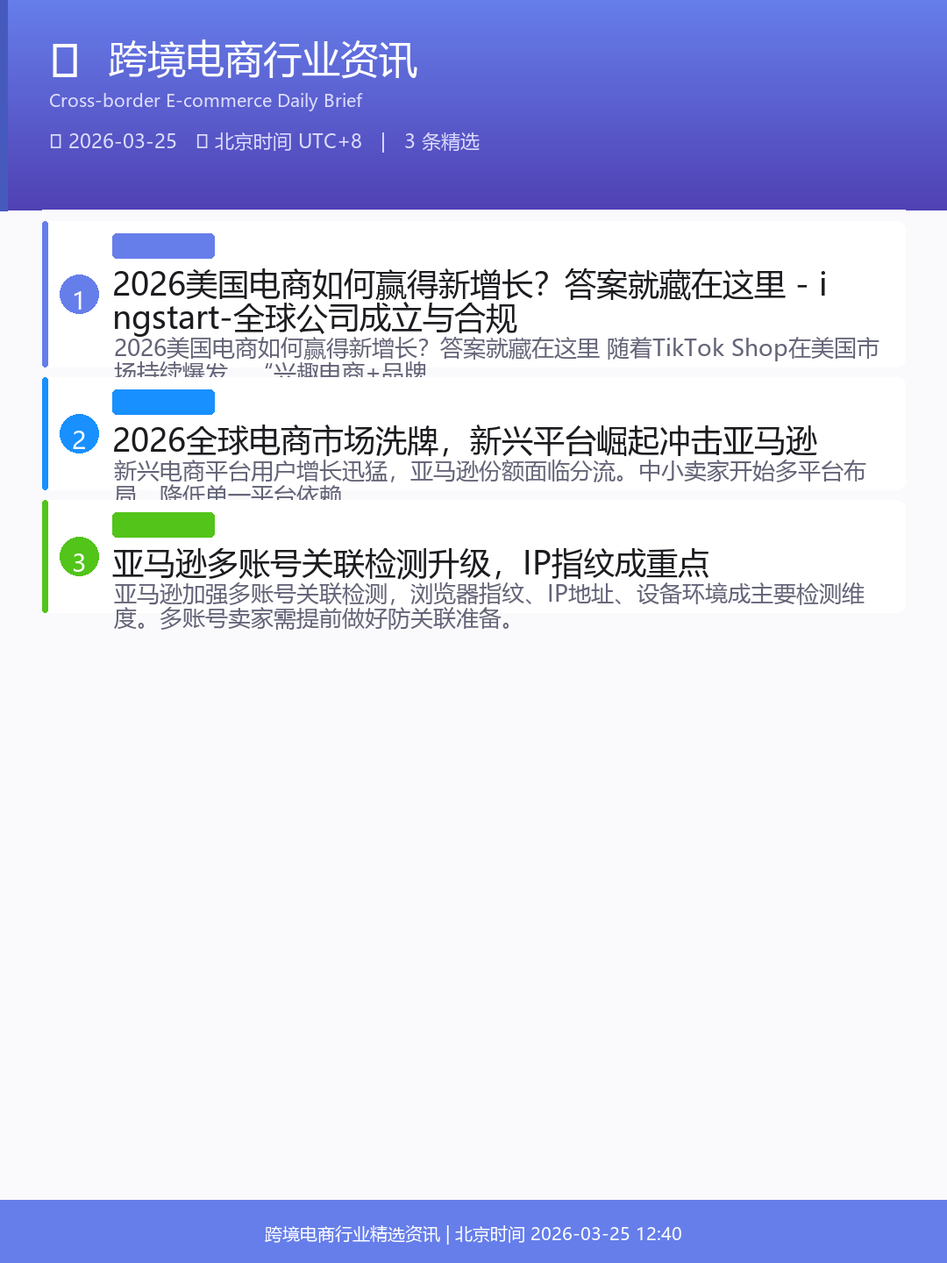
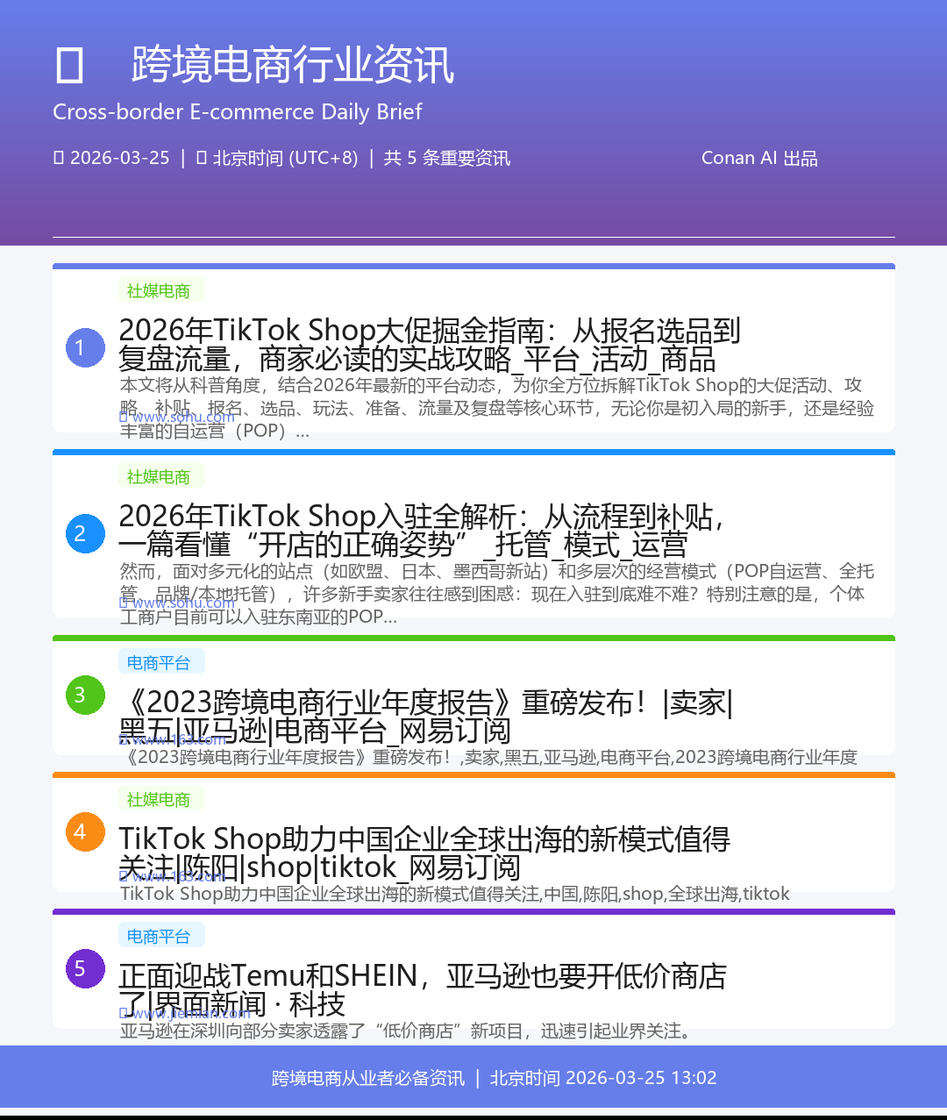
update: 行业简报 2026-03-25 13:02

diff --git a/资讯/index.html b/资讯/index.html
@@ -2,148 +2,162 @@
 <html>
 <head>
 <meta charset="UTF-8">
-<meta name="viewport" content="width=device-width,initial-scale=1.0">
-<title>行业资讯</title>
+<meta name="viewport" content="width=device-width, initial-scale=1.0">
+<title>📰 行业资讯</title>
 <style>
-*{margin:0;padding:0;box-sizing:border-box}
-body{font-family:-apple-system,BlinkMacSystemFont,"Segoe UI",Roboto,sans-serif;background:#f0f2f5;color:#1a1a2e;line-height:1.6}
-a{color:#667eea;text-decoration:none}
-.pk{position:fixed;top:16px;right:16px;z-index:200;background:linear-gradient(135deg,#667eea,#764ba2);color:#fff;border:none;padding:10px 18px;border-radius:25px;font-size:13px;font-weight:700;cursor:pointer;box-shadow:0 4px 16px rgba(102,126,234,.35)}
-.pk:hover{transform:scale(1.04)}
-.hdr{background:linear-gradient(135deg,#667eea 0%,#764ba2 100%);padding:20px 24px 16px;color:#fff}
-.hdr h1{font-size:20px;font-weight:800;letter-spacing:-.5px}
-.hdr p{font-size:12px;color:rgba(255,255,255,.75);margin-top:2px}
-.hdr .tm{font-size:11px;color:rgba(255,255,255,.6);margin-top:4px}
-.bar{display:flex;gap:8px;padding:12px 16px;background:#fff;border-bottom:1px solid #e8e9f0;overflow-x:auto;white-space:nowrap}
-.bar a{display:inline-block;padding:6px 14px;background:#f4f5f9;border-radius:20px;font-size:12px;font-weight:600;color:#4a4a6a;transition:all .2s}
-.bar a:hover,.bar a.active{background:#667eea;color:#fff}
-.main{max-width:720px;margin:0 auto;padding:12px 16px 80px}
-.sec{margin-bottom:16px}
-.sec-h{font-size:12px;font-weight:700;color:#9090a0;text-transform:uppercase;letter-spacing:.5px;padding:8px 0 6px;border-bottom:1px solid #e8e9f0;margin-bottom:8px;display:flex;align-items:center;gap:6px}
-.sec-h span{background:#667eea;color:#fff;font-size:10px;padding:1px 6px;border-radius:8px}
-.curB{background:#22c55e!important}
-.nl{list-style:none;background:#fff;border-radius:12px;overflow:hidden;box-shadow:0 1px 3px rgba(0,0,0,.06)}
-.ni{display:flex;gap:14px;padding:14px 16px;border-bottom:1px solid #f0f2f5;align-items:flex-start}
-.ni:last-child{border-bottom:none}
-.nb{width:26px;height:26px;background:linear-gradient(135deg,#667eea,#764ba2);color:#fff;border-radius:50%;font-size:11px;font-weight:700;display:flex;align-items:center;justify-content:center;flex-shrink:0;margin-top:2px}
-.nc{flex:1;min-width:0}
-.nm{margin-bottom:4px}
-.tag{display:inline-block;padding:1px 8px;border-radius:6px;font-size:10px;font-weight:700}
-.tagR{background:#fff1f0;color:#cf1322}
-.tagO{background:#fff7e6;color:#d46b08}
-.tagB{background:#e6f7ff;color:#0958d9}
-.tagV{background:#f9f0ff;color:#722ed1}
-.tagG{background:#f6ffed;color:#389e0d}
-.tagGr{background:#f5f5f5;color:#595959}
-.nt{font-size:14px;font-weight:600;color:#1a1a2e;line-height:1.4;margin-bottom:3px}
-.nt a{color:inherit}
-.nd{font-size:12px;color:#6b6b80;line-height:1.5}
-.ns{font-size:11px;color:#9090a0;margin-top:4px}
-.nlk{color:#667eea;font-weight:600}
-.tl{width:100%;border-collapse:collapse;background:#fff;border-radius:12px;overflow:hidden;box-shadow:0 1px 3px rgba(0,0,0,.06)}
-.tl th{font-size:11px;color:#9090a0;font-weight:600;text-align:left;padding:10px 12px;background:#f8f9fb;border-bottom:1px solid #e8e9f0;text-transform:uppercase}
-.tl td{padding:10px 12px;font-size:12px;border-bottom:1px solid #f0f2f5;vertical-align:middle}
-.tl tr:last-child td{border-bottom:none}
-.tc{color:#667eea;font-weight:700;white-space:nowrap}
-.ti{color:#6b6b80;max-width:180px;overflow:hidden;text-overflow:ellipsis;white-space:nowrap}
-.bv{padding:5px 12px;background:#667eea;color:#fff;border:none;border-radius:8px;font-size:11px;font-weight:600;cursor:pointer}
-.bv:hover{background:#764ba2}
-.bcur{background:#22c55e}
-.bcur:hover{background:#16a34a}
-.empty{text-align:center;padding:28px;color:#9090a0;font-size:13px}
-.dg{margin-bottom:20px}
-.dl{font-size:13px;font-weight:700;color:#1a1a2e;padding:8px 0 6px;border-bottom:2px solid #667eea;margin-bottom:6px}
-.dg .tl{border-radius:8px}
-.ov{position:fixed;top:0;left:0;right:0;bottom:0;background:rgba(0,0,0,.6);z-index:300;display:none;align-items:center;justify-content:center;padding:16px}
-.ov.on{display:flex}
-.ovbox{background:#fff;border-radius:16px;width:100%;max-width:680px;max-height:85vh;overflow-y:auto;box-shadow:0 24px 80px rgba(0,0,0,.25)}
-.ovhd{display:flex;justify-content:space-between;align-items:center;padding:16px 20px;border-bottom:1px solid #e8e9f0;position:sticky;top:0;background:#fff;border-radius:16px 16px 0 0}
-.ovtt{font-size:15px;font-weight:700;color:#1a1a2e}
-.ovcls{padding:6px 14px;background:#f4f5f9;border:none;border-radius:8px;font-size:12px;font-weight:600;cursor:pointer}
-.ovbd{padding:16px}
-.dlbtn{position:fixed;bottom:24px;right:16px;background:linear-gradient(135deg,#667eea,#764ba2);color:#fff;padding:12px 20px;border-radius:25px;font-size:13px;font-weight:700;text-decoration:none;box-shadow:0 4px 20px rgba(102,126,234,.4);z-index:100;display:flex;align-items:center;gap:6px}
-.dlbtn:hover{transform:scale(1.04)}
+  * { margin: 0; padding: 0; box-sizing: border-box; }
+  body { font-family: -apple-system, BlinkMacSystemFont, 'Segoe UI', Roboto, sans-serif; background: #f0f2f5; }
+  .header { background: linear-gradient(135deg, #667eea 0%, #764ba2 100%); color: white; padding: 20px 40px; display: flex; justify-content: space-between; align-items: center; flex-wrap: wrap; gap: 10px; }
+  .header h1 { font-size: 22px; }
+  .header a { color: white; text-decoration: none; font-size: 14px; }
+  .header .last-check { font-size: 12px; opacity: 0.8; }
+  .container { max-width: 1100px; margin: 0 auto; padding: 30px 40px; }
+
+  /* 简报图片卡片 */
+  .poster-card { margin-bottom: 25px; }
+  .poster-card-inner { background: white; border-radius: 16px; padding: 24px 28px; box-shadow: 0 4px 16px rgba(0,0,0,0.1); display: flex; align-items: center; gap: 20px; cursor: pointer; border: 2px solid transparent; transition: all 0.25s; }
+  .poster-card-inner:hover { border-color: #667eea; transform: translateY(-3px); box-shadow: 0 10px 30px rgba(102,126,234,0.2); }
+  .poster-icon { width: 64px; height: 64px; background: linear-gradient(135deg, #667eea, #764ba2); border-radius: 14px; display: flex; align-items: center; justify-content: center; font-size: 30px; flex-shrink: 0; }
+  .poster-info { flex: 1; }
+  .poster-title { font-size: 17px; font-weight: 700; color: #222; margin-bottom: 5px; }
+  .poster-desc { font-size: 13px; color: #666; }
+  .poster-right { display: flex; align-items: center; gap: 15px; }
+  .poster-tag { background: linear-gradient(135deg, #667eea, #764ba2); color: white; font-size: 12px; padding: 6px 14px; border-radius: 20px; white-space: nowrap; font-weight: 600; }
+  .poster-arrow { font-size: 22px; color: #667eea; }
+
+  /* 简报正文 */
+  .brief-card { background: white; border-radius: 16px; padding: 28px 32px; box-shadow: 0 4px 16px rgba(0,0,0,0.08); margin-bottom: 25px; }
+  .brief-header { display: flex; justify-content: space-between; align-items: center; margin-bottom: 24px; padding-bottom: 16px; border-bottom: 2px solid #f0f0f5; flex-wrap: wrap; gap: 8px; }
+  .brief-header-title { font-size: 18px; font-weight: 700; color: #222; }
+  .brief-header-meta { font-size: 12px; color: #999; }
+  .brief-header-badge { background: #52c41a; color: white; font-size: 11px; padding: 3px 10px; border-radius: 10px; margin-left: 10px; }
+  .brief-item { display: flex; gap: 16px; padding: 18px 0; border-bottom: 1px solid #f5f5f5; }
+  .brief-item:last-child { border-bottom: none; padding-bottom: 0; }
+  .brief-num { width: 28px; height: 28px; background: linear-gradient(135deg, #667eea, #764ba2); color: white; border-radius: 50%; font-size: 13px; font-weight: 700; display: flex; align-items: center; justify-content: center; flex-shrink: 0; margin-top: 3px; }
+  .brief-content { flex: 1; }
+  .brief-content .tag { display: inline-block; padding: 2px 8px; border-radius: 4px; font-size: 11px; margin-bottom: 6px; }
+  .brief-content .tag-blue { background: #e6f7ff; color: #1890ff; }
+  .brief-content .tag-green { background: #f6ffed; color: #52c41a; }
+  .brief-content .tag-orange { background: #fff7e6; color: #fa8c16; }
+  .brief-content .tag-purple { background: #f9f0ff; color: #722ed1; }
+  .brief-title { font-size: 15px; font-weight: 600; color: #222; margin-bottom: 6px; line-height: 1.5; }
+  .brief-title a { color: #222; text-decoration: none; }
+  .brief-title a:hover { color: #667eea; }
+  .brief-desc { font-size: 13px; color: #555; line-height: 1.7; margin-bottom: 6px; }
+  .brief-source { font-size: 12px; color: #999; }
+  .brief-link a { color: #667eea; text-decoration: none; }
+  .brief-link a:hover { text-decoration: underline; }
+
+  /* 弹窗 */
+  .modal-overlay { display: none; position: fixed; top: 0; left: 0; right: 0; bottom: 0; background: rgba(0,0,0,0.88); z-index: 9999; align-items: center; justify-content: center; padding: 20px; }
+  .modal-overlay.show { display: flex; }
+  .modal-close { position: fixed; top: 20px; right: 30px; color: white; font-size: 32px; cursor: pointer; z-index: 10001; background: rgba(255,255,255,0.15); width: 44px; height: 44px; border-radius: 50%; text-align: center; line-height: 44px; }
+  .modal-close:hover { background: rgba(255,255,255,0.3); }
+  .modal-img-wrap { max-width: 95vw; max-height: 90vh; display: flex; align-items: center; justify-content: center; }
+  .modal-img-wrap img { max-width: 100%; max-height: 88vh; border-radius: 12px; box-shadow: 0 24px 80px rgba(0,0,0,0.6); }
+  .modal-save { position: fixed; bottom: 30px; right: 30px; z-index: 10001; }
+  .modal-save a { display: inline-block; background: white; color: #667eea; padding: 12px 24px; border-radius: 25px; font-size: 14px; font-weight: 700; text-decoration: none; box-shadow: 0 4px 16px rgba(0,0,0,0.3); }
+  .modal-save a:hover { transform: scale(1.05); }
+  .modal-tip { position: fixed; bottom: 30px; left: 50%; transform: translateX(-50%); color: rgba(255,255,255,0.5); font-size: 12px; z-index: 10001; }
 </style>
 </head>
 <body>
-<button class="pk" onclick="document.getElementById('ov').classList.toggle('on')">🖼 预览图片</button>
-
-<div class="hdr">
+<div class="header">
   <h1>📰 行业资讯</h1>
-  <p>跨境电商每日简报 · 精选 5 条</p>
-  <div class="tm">🕒 2026-03-25 12:40 · 北京时间 UTC+8</div>
-</div>
-
-<div class="bar">
-  <a href="#" class="active" id="tabA0" onclick="switchTab(0);return false">📋 当前版本</a>
-  <a href="#" id="tabA1" onclick="switchTab(1);return false">🕐 今日历史</a>
-  <a href="历史.html">📁 历史存档</a>
-</div>
-
-<div class="main">
-  <div id="tab0">
-    <div class="sec">
-      <div class="sec-h">🖼 对外简报 <span>朋友圈</span> <span class="curB">12:00</span></div>
-      <ul class="nl"><li class="ni"><div class="nb">1</div><div class="nc"><div class="nm"><span class="tag tagR">行业政策</span></div><div class="nt"><a href="https://www.ingstart.com/blog/45558.html" target="_blank">2026美国电商如何赢得新增长？答案就藏在这里 - ingstart-全球公司成立与合规</a></div><div class="nd">2026美国电商如何赢得新增长？答案就藏在这里 随着TikTok Shop在美国市场持续爆发，“兴趣电商+品牌</div></div></li><li class="ni"><div class="nb">2</div><div class="nc"><div class="nm"><span class="tag tagO">市场观察</span></div><div class="nt"><a href="https://www.sohu.com/a/996154720_122656378" target="_blank">2026全球电商市场洗牌，新兴平台崛起冲击亚马逊</a></div><div class="nd">新兴电商平台用户增长迅猛，亚马逊份额面临分流。中小卖家开始多平台布局，降低单一平台依赖。</div></div></li><li class="ni"><div class="nb">3</div><div class="nc"><div class="nm"><span class="tag tagR">行业政策</span></div><div class="nt"><a href="https://www.sohu.com/a/998377667_120987862" target="_blank">亚马逊多账号关联检测升级，IP指纹成重点</a></div><div class="nd">亚马逊加强多账号关联检测，浏览器指纹、IP地址、设备环境成主要检测维度。多账号卖家需提前做好防关联准备。</div></div></li></ul>
-    </div>
-    <div class="sec">
-      <div class="sec-h">📊 对内全模块 <span>5条</span></div>
-      <ul class="nl"><li class="ni"><div class="nb">1</div><div class="nc"><div class="nm"><span class="tag tagR">行业政策</span></div><div class="nt"><a href="https://www.ingstart.com/blog/45558.html" target="_blank">2026美国电商如何赢得新增长？答案就藏在这里 - ingstart-全球公司成立与合规</a></div><div class="nd">2026美国电商如何赢得新增长？答案就藏在这里 随着TikTok Shop在美国市场持续爆发，“兴趣电商+品牌</div><div class="ns">&#128214; <a href="https://www.ingstart.com/blog/45558.html" target="_blank">www.ingstart.com</a> <a class="nlk" href="https://www.ingstart.com/blog/45558.html" target="_blank">&#8594;</a></div></div></li><li class="ni"><div class="nb">2</div><div class="nc"><div class="nm"><span class="tag tagGr">运营技巧</span></div><div class="nt"><a href="https://www.sohu.com/a/998487508_122647688" target="_blank">404,您访问的页面已经不存在!</a></div><div class="nd"></div><div class="ns">&#128214; <a href="https://www.sohu.com/a/998487508_122647688" target="_blank">www.sohu.com</a> <a class="nlk" href="https://www.sohu.com/a/998487508_122647688" target="_blank">&#8594;</a></div></div></li><li class="ni"><div class="nb">3</div><div class="nc"><div class="nm"><span class="tag tagO">市场观察</span></div><div class="nt"><a href="https://www.sohu.com/a/996154720_122656378" target="_blank">2026全球电商市场洗牌，新兴平台崛起冲击亚马逊</a></div><div class="nd">新兴电商平台用户增长迅猛，亚马逊份额面临分流。中小卖家开始多平台布局，降低单一平台依赖。</div><div class="ns">&#128214; <a href="https://www.sohu.com/a/996154720_122656378" target="_blank">搜狐财经</a> <a class="nlk" href="https://www.sohu.com/a/996154720_122656378" target="_blank">&#8594;</a></div></div></li><li class="ni"><div class="nb">4</div><div class="nc"><div class="nm"><span class="tag tagR">行业政策</span></div><div class="nt"><a href="https://www.sohu.com/a/998377667_120987862" target="_blank">亚马逊多账号关联检测升级，IP指纹成重点</a></div><div class="nd">亚马逊加强多账号关联检测，浏览器指纹、IP地址、设备环境成主要检测维度。多账号卖家需提前做好防关联准备。</div><div class="ns">&#128214; <a href="https://www.sohu.com/a/998377667_120987862" target="_blank">搜狐财经</a> <a class="nlk" href="https://www.sohu.com/a/998377667_120987862" target="_blank">&#8594;</a></div></div></li><li class="ni"><div class="nb">5</div><div class="nc"><div class="nm"><span class="tag tagR">行业政策</span></div><div class="nt"><a href="https://www.jiemian.com/article/14129901.html" target="_blank">美国、土耳其相继加征关税，跨境卖家成本压力骤增</a></div><div class="nd">美国、土耳其对多国商品加征关税，出口电商面临新一轮成本压力，需提前布局多平台分散风险。</div><div class="ns">&#128214; <a href="https://www.jiemian.com/article/14129901.html" target="_blank">界面新闻</a> <a class="nlk" href="https://www.jiemian.com/article/14129901.html" target="_blank">&#8594;</a></div></div></li></ul>
-    </div>
-  </div>
-  <div id="tab1" style="display:none">
-    <div class="sec">
-      <div class="sec-h">🕐 今日历史版本 <span>2026-03-25</span></div>
-      <table class="tl"><thead><tr><th>时间</th><th>条数</th><th>首条</th><th></th></tr></thead><tbody><tr><td class="tc"><em class="cur">12:00</em></td><td class="ti">8条</td><td class="ti">2026美国电商如何赢得新增长？答案就藏在这里 - ings...</td><td><button class="bv" onclick="showSnap('12')">当前</button></td></tr></tbody></table>
-    </div>
+  <div>
+    <span class="last-check">🕒 北京时间 (UTC+8) | 2026-03-25 13:02</span>
+    <a href="../index.html" style="margin-left:15px;">← 返回首页</a>
   </div>
 </div>
-
-<div class="ov" id="ov" onclick="if(event.target===this)this.classList.remove('on')">
-  <div class="ovbox">
-    <div class="ovhd">
-      <div class="ovtt" id="svT">--:--</div>
-      <button class="ovcls" onclick="document.getElementById('ov').classList.remove('on')">关闭</button>
+<div class="container">
+  <!-- 简报图片卡片 -->
+  <div class="poster-card">
+    <div class="poster-card-inner" onclick="openPosterModal()">
+      <div class="poster-icon">🖼</div>
+      <div class="poster-info">
+        <div class="poster-title">📰 今日简报图片</div>
+        <div class="poster-desc">点击预览完整简报，支持右键/长按保存图片</div>
+      </div>
+      <div class="poster-right">
+        <span class="poster-tag">🕒 2026-03-25</span>
+        <span class="poster-arrow">→</span>
+      </div>
     </div>
-    <div class="ovbd"><div id="svB"></div></div>
+  </div>
+
+  <!-- 简报正文（5条合并） -->
+  <div class="brief-card">
+    <div class="brief-header">
+      <div class="brief-header-title">📋 今日要闻 · 2026-03-25 <span class="brief-header-badge">共 5 条</span></div>
+      <div class="brief-header-meta">🕒 更新于 2026-03-25 13:02 · 每整点自动更新</div>
+    </div>
+    
+      <div class="brief-item">
+        <div class="brief-num">1</div>
+        <div class="brief-content">
+          <span class="tag tag-green">社媒电商</span>
+          <div class="brief-title"><a href="https://www.sohu.com/a/998791727_122656378" target="_blank">2026年TikTok Shop大促掘金指南：从报名选品到复盘流量，商家必读的实战攻略_平台_活动_商品</a></div>
+          <div class="brief-desc">本文将从科普角度，结合2026年最新的平台动态，为你全方位拆解TikTok Shop的大促活动、攻略、补贴、报名、选品、玩法、准备、流量及复盘等核心环节，无论你是初入局的新手，还是经验丰富的自运营（POP）…</div>
+          <div class="brief-source">📌 www.sohu.com <span class="brief-link">→ <a href="https://www.sohu.com/a/998791727_122656378" target="_blank">阅读原文</a></span></div>
+        </div>
+      </div>
+      <div class="brief-item">
+        <div class="brief-num">2</div>
+        <div class="brief-content">
+          <span class="tag tag-green">社媒电商</span>
+          <div class="brief-title"><a href="https://www.sohu.com/a/998337896_122656378" target="_blank">2026年TikTok Shop入驻全解析：从流程到补贴，一篇看懂“开店的正确姿势”_托管_模式_运营</a></div>
+          <div class="brief-desc">然而，面对多元化的站点（如欧盟、日本、墨西哥新站）和多层次的经营模式（POP自运营、全托管、品牌/本地托管），许多新手卖家往往感到困惑：现在入驻到底难不难？特别注意的是，个体工商户目前可以入驻东南亚的POP…</div>
+          <div class="brief-source">📌 www.sohu.com <span class="brief-link">→ <a href="https://www.sohu.com/a/998337896_122656378" target="_blank">阅读原文</a></span></div>
+        </div>
+      </div>
+      <div class="brief-item">
+        <div class="brief-num">3</div>
+        <div class="brief-content">
+          <span class="tag tag-blue">电商平台</span>
+          <div class="brief-title"><a href="https://www.163.com/dy/article/IP7C9S5I0538AT1N.html" target="_blank">《2023跨境电商行业年度报告》重磅发布！|卖家|黑五|亚马逊|电商平台_网易订阅</a></div>
+          <div class="brief-desc">《2023跨境电商行业年度报告》重磅发布！,卖家,黑五,亚马逊,电商平台,2023跨境电商行业年度报告</div>
+          <div class="brief-source">📌 www.163.com <span class="brief-link">→ <a href="https://www.163.com/dy/article/IP7C9S5I0538AT1N.html" target="_blank">阅读原文</a></span></div>
+        </div>
+      </div>
+      <div class="brief-item">
+        <div class="brief-num">4</div>
+        <div class="brief-content">
+          <span class="tag tag-green">社媒电商</span>
+          <div class="brief-title"><a href="https://www.163.com/dy/article/JLQD48HA05199NPP.html" target="_blank">TikTok Shop助力中国企业全球出海的新模式值得关注|陈阳|shop|tiktok_网易订阅</a></div>
+          <div class="brief-desc">TikTok Shop助力中国企业全球出海的新模式值得关注,中国,陈阳,shop,全球出海,tiktok</div>
+          <div class="brief-source">📌 www.163.com <span class="brief-link">→ <a href="https://www.163.com/dy/article/JLQD48HA05199NPP.html" target="_blank">阅读原文</a></span></div>
+        </div>
+      </div>
+      <div class="brief-item">
+        <div class="brief-num">5</div>
+        <div class="brief-content">
+          <span class="tag tag-blue">电商平台</span>
+          <div class="brief-title"><a href="https://www.jiemian.com/article/11336895.html" target="_blank">正面迎战Temu和SHEIN，亚马逊也要开低价商店了|界面新闻 · 科技</a></div>
+          <div class="brief-desc">亚马逊在深圳向部分卖家透露了“低价商店”新项目，迅速引起业界关注。</div>
+          <div class="brief-source">📌 www.jiemian.com <span class="brief-link">→ <a href="https://www.jiemian.com/article/11336895.html" target="_blank">阅读原文</a></span></div>
+        </div>
+      </div>
   </div>
 </div>
 
-<a class="dlbtn" href="https://dwightmulkin-beep.github.io/conan-daily-report/%E8%B5%84%E8%AE%AF/%E7%AE%80%E6%8A%A5.png" download="行业简报_2026-03-25_12h.png">⬇ 保存图片</a>
+<!-- 简报图片弹窗 -->
+<div class="modal-overlay" id="posterModal">
+  <div class="modal-close" onclick="closePosterModal()">×</div>
+  <div class="modal-img-wrap">
+    <img src="https://dwightmulkin-beep.github.io/conan-daily-report/%E8%B5%84%E8%AE%AF/%E7%AE%80%E6%8A%A5.png" alt="今日简报" id="posterImg">
+  </div>
+  <div class="modal-save">
+    <a href="https://dwightmulkin-beep.github.io/conan-daily-report/%E8%B5%84%E8%AE%AF/%E7%AE%80%E6%8A%A5.png" download="行业简报_2026-03-25.png">⬇ 保存图片</a>
+  </div>
+  <div class="modal-tip">点击 × 或按 ESC 关闭</div>
+</div>
 
-<script type="application/json" id="sd">{"2026-03-25": {"12": {"articles": [{"tag": "行业政策", "title": "2026美国电商如何赢得新增长？答案就藏在这里 - ingstart-全球公司成立与合规", "desc": "2026美国电商如何赢得新增长？答案就藏在这里 随着TikTok Shop在美国市场持续爆发，“兴趣电商+品牌", "date": "2026-03-25", "hour": "12", "url": "https://www.ingstart.com/blog/45558.html", "source": "www.ingstart.com", "is_new": true, "for_outer": true, "score": 5}, {"tag": "市场观察", "title": "2026全球电商市场洗牌，新兴平台崛起冲击亚马逊", "desc": "新兴电商平台用户增长迅猛，亚马逊份额面临分流。中小卖家开始多平台布局，降低单一平台依赖。", "url": "https://www.sohu.com/a/996154720_122656378", "source": "搜狐财经", "for_outer": true, "is_new": false, "hour": "12", "score": 5}, {"tag": "行业政策", "title": "亚马逊多账号关联检测升级，IP指纹成重点", "desc": "亚马逊加强多账号关联检测，浏览器指纹、IP地址、设备环境成主要检测维度。多账号卖家需提前做好防关联准备。", "url": "https://www.sohu.com/a/998377667_120987862", "source": "搜狐财经", "for_outer": true, "is_new": false, "hour": "12", "score": 2}, {"tag": "行业政策", "title": "2026美国电商如何赢得新增长？答案就藏在这里 - ingstart-全球公司成立与合规", "desc": "2026美国电商如何赢得新增长？答案就藏在这里 随着TikTok Shop在美国市场持续爆发，“兴趣电商+品牌", "date": "2026-03-25", "hour": "12", "url": "https://www.ingstart.com/blog/45558.html", "source": "www.ingstart.com", "is_new": true, "for_outer": true, "score": 5}, {"tag": "运营技巧", "title": "404,您访问的页面已经不存在!", "desc": "", "date": "2026-03-25", "hour": "12", "url": "https://www.sohu.com/a/998487508_122647688", "source": "www.sohu.com", "is_new": true, "for_outer": false, "score": 0}, {"tag": "市场观察", "title": "2026全球电商市场洗牌，新兴平台崛起冲击亚马逊", "desc": "新兴电商平台用户增长迅猛，亚马逊份额面临分流。中小卖家开始多平台布局，降低单一平台依赖。", "url": "https://www.sohu.com/a/996154720_122656378", "source": "搜狐财经", "for_outer": true, "is_new": false, "hour": "12", "score": 5}, {"tag": "行业政策", "title": "亚马逊多账号关联检测升级，IP指纹成重点", "desc": "亚马逊加强多账号关联检测，浏览器指纹、IP地址、设备环境成主要检测维度。多账号卖家需提前做好防关联准备。", "url": "https://www.sohu.com/a/998377667_120987862", "source": "搜狐财经", "for_outer": true, "is_new": false, "hour": "12", "score": 2}, {"tag": "行业政策", "title": "美国、土耳其相继加征关税，跨境卖家成本压力骤增", "desc": "美国、土耳其对多国商品加征关税，出口电商面临新一轮成本压力，需提前布局多平台分散风险。", "url": "https://www.jiemian.com/article/14129901.html", "source": "界面新闻", "for_outer": true, "is_new": false, "hour": "12", "score": 2}], "updated": "2026-03-25 12:40"}}}</script>
 <script>
-var SD=JSON.parse(document.getElementById("sd").textContent||"{}");
-var tabs=document.querySelectorAll('.bar a');
-
-function switchTab(i){
-  document.getElementById('tab0').style.display=i===0?'block':'none';
-  document.getElementById('tab1').style.display=i===1?'block':'none';
-  tabs[0].classList.toggle('active',i===0);
-  tabs[1].classList.toggle('active',i===1);
-}
-
-function showSnap(hr){
-  var TD=SD["2026-03-25"]||{};
-  var sp=TD[hr];if(!sp){alert("数据不存在");return}
-  var arts=sp.articles||[];
-  document.getElementById("svT").textContent="2026-03-25 "+hr+":00 ("+arts.length+"条)";
-  var h='<ul class="nl">';
-  arts.forEach(function(a,i){
-    var cls=a.tag==="\u884c\u4e1a\u653f\u7b56"?"tagR":a.tag==="\u5e02\u573a\u89c2\u5bdf"?"tagO":
-           a.tag==="\u5e73\u53f0\u52a8\u6001"?"tagB":a.tag==="\u5de5\u5177\u8bc4\u6d4b"?"tagV":
-           a.tag==="\u652f\u4ed8\u91d1\u878d"?"tagG":"tagGr";
-    h+='<li class="ni"><div class="nb">'+(i+1)+'</div><div class="nc">'+
-      '<div class="nm"><span class="tag '+cls+'">'+a.tag+'</span></div>'+
-      '<div class="nt"><a href="'+a.url+'" target="_blank">'+a.title+'</a></div>'+
-      '<div class="nd">'+a.desc+'</div>'+
-      '<div class="ns">📌 <a href="'+a.url+'" target="_blank">'+a.source+'</a> <a class="nlk" href="'+a.url+'" target="_blank">→</a></div>'+
-    '</div></li>';
-  });
-  h+='</ul>';
-  document.getElementById("svB").innerHTML=h;
-  document.getElementById("ov").classList.add("on");
-}
+var modal = document.getElementById('posterModal');
+function openPosterModal() { modal.classList.add('show'); document.body.style.overflow = 'hidden'; }
+function closePosterModal() { modal.classList.remove('show'); document.body.style.overflow = ''; }
+modal.addEventListener('click', function(e) { if (e.target === modal) closePosterModal(); });
+document.addEventListener('keydown', function(e) { if (e.key === 'Escape') closePosterModal(); });
 </script>
 </body>
 </html>

diff --git a/index.html b/index.html
@@ -76,7 +76,7 @@
 <div class="header">
   <h1>📊 Conan信息站</h1>
   <div>
-    <span class="tz">🕒 北京时间 (UTC+8) | 资讯2026-03-25 12:02 | 资讯2026-03-25 11:29 | 资讯2026-03-25 11:02 | 资讯2026-03-25 10:44 | 资讯2026-03-25 10:37 | 资讯2026-03-25 10:33 | 资讯2026-03-25 10:30 | 资讯2026-03-25 10:29 | 资讯更新于 2026-03-25 10:15</span>
+    <span class="tz">🕒 北京时间 (UTC+8) | 资讯2026-03-25 13:02 | 资讯2026-03-25 12:02 | 资讯2026-03-25 11:29 | 资讯2026-03-25 11:02 | 资讯2026-03-25 10:44 | 资讯2026-03-25 10:37 | 资讯2026-03-25 10:33 | 资讯2026-03-25 10:30 | 资讯2026-03-25 10:29 | 资讯更新于 2026-03-25 10:15</span>
     <a href="https://github.com/dwightmulkin-beep/conan-daily-report" target="_blank">GitHub</a>
   </div>
 </div>
@@ -132,30 +132,30 @@
   <div class="section">
 
     <div class="news-item">
-      <div class="meta"><span class="tag tag-green">社媒电商</span>2026-03-25 <span class="update-time">🕒 2026-03-25 12:02</span></div>
-      <div class="title"><a href="https://www.shoplazza.cn/blog/tiktok-shop-policy-update" target="_blank">TikTok Shop政策更新：2026美国市场本土化运营实操指南</a></div>
-      <div class="summary">TikTok Shop美国站正在加速扩张，平台政策向本土化运营倾斜，多账号矩阵运营和IP隔离需求持续增长。</div>
-      <div class="source">📌 <a href="https://www.shoplazza.cn/blog/tiktok-shop-policy-update" target="_blank">Shoplazza·店小秘</a></div>
+      <div class="meta"><span class="tag tag-green">社媒电商</span>2026-03-25 <span class="update-time">🕒 2026-03-25 13:02</span></div>
+      <div class="title"><a href="https://www.sohu.com/a/998791727_122656378" target="_blank">2026年TikTok Shop大促掘金指南：从报名选品到复盘流量，商家必读的实战攻略_平台_活动_商品</a></div>
+      <div class="summary">本文将从科普角度，结合2026年最新的平台动态，为你全方位拆解TikTok Shop的大促活动、攻略、补贴、报名、选品、玩法、准备、流量及复盘等核心环节，无论你是初入局的新手，还是经验丰富的自运营（POP）…</div>
+      <div class="source">📌 <a href="https://www.sohu.com/a/998791727_122656378" target="_blank">www.sohu.com</a></div>
     </div><div class="news-item">
-      <div class="meta"><span class="tag tag-purple">工具评测</span>2026-03-25 <span class="update-time">🕒 2026-03-25 12:02</span></div>
-      <div class="title"><a href="https://www.bitbrowser.cn/blog/fingerprint-browser-security-evaluation-ranking" target="_blank">2026指纹浏览器安全评测排行榜：哪款工具防关联效果最好？</a></div>
-      <div class="summary">主流指纹浏览器功能横评，云登、adsPower、hubbrowser等产品的核心功能测评，批量管理与RPA集成能力对比。</div>
-      <div class="source">📌 <a href="https://www.bitbrowser.cn/blog/fingerprint-browser-security-evaluation-ranking" target="_blank">比特浏览器·行业评测</a></div>
+      <div class="meta"><span class="tag tag-green">社媒电商</span>2026-03-25 <span class="update-time">🕒 2026-03-25 13:02</span></div>
+      <div class="title"><a href="https://www.sohu.com/a/998337896_122656378" target="_blank">2026年TikTok Shop入驻全解析：从流程到补贴，一篇看懂“开店的正确姿势”_托管_模式_运营</a></div>
+      <div class="summary">然而，面对多元化的站点（如欧盟、日本、墨西哥新站）和多层次的经营模式（POP自运营、全托管、品牌/本地托管），许多新手卖家往往感到困惑：现在入驻到底难不难？特别注意的是，个体工商户目前可以入驻东南亚的POP…</div>
+      <div class="source">📌 <a href="https://www.sohu.com/a/998337896_122656378" target="_blank">www.sohu.com</a></div>
     </div><div class="news-item">
-      <div class="meta"><span class="tag tag-blue">电商平台</span>2026-03-25 <span class="update-time">🕒 2026-03-25 12:02</span></div>
-      <div class="title"><a href="https://www.sohu.com/a/998377667_120987862" target="_blank">月活超6.5亿！亚马逊仍是出海主航道，这几点卖家们要避坑</a></div>
-      <div class="summary">Similarweb数据显示亚马逊以6.517亿月活稳居全球电商第一。平台合规与风控要求严苛，文章总结了三类常见踩坑及应对方案。</div>
-      <div class="source">📌 <a href="https://www.sohu.com/a/998377667_120987862" target="_blank">搜狐财经</a></div>
+      <div class="meta"><span class="tag tag-blue">电商平台</span>2026-03-25 <span class="update-time">🕒 2026-03-25 13:02</span></div>
+      <div class="title"><a href="https://www.163.com/dy/article/IP7C9S5I0538AT1N.html" target="_blank">《2023跨境电商行业年度报告》重磅发布！|卖家|黑五|亚马逊|电商平台_网易订阅</a></div>
+      <div class="summary">《2023跨境电商行业年度报告》重磅发布！,卖家,黑五,亚马逊,电商平台,2023跨境电商行业年度报告</div>
+      <div class="source">📌 <a href="https://www.163.com/dy/article/IP7C9S5I0538AT1N.html" target="_blank">www.163.com</a></div>
     </div><div class="news-item">
-      <div class="meta"><span class="tag tag-blue">电商平台</span>2026-03-25 <span class="update-time">🕒 2026-03-25 12:02</span></div>
-      <div class="title"><a href="https://www.sohu.com/a/996154720_122656378" target="_blank">eBay更新卖家评级体系，账号表现更受重视</a></div>
-      <div class="summary">eBay宣布更新卖家评级体系，账号表现和服务质量权重提升。稳定的环境和IP资源将成为卖家运营的重要保障。</div>
-      <div class="source">📌 <a href="https://www.sohu.com/a/996154720_122656378" target="_blank">搜狐财经·eBay动态</a></div>
+      <div class="meta"><span class="tag tag-green">社媒电商</span>2026-03-25 <span class="update-time">🕒 2026-03-25 13:02</span></div>
+      <div class="title"><a href="https://www.163.com/dy/article/JLQD48HA05199NPP.html" target="_blank">TikTok Shop助力中国企业全球出海的新模式值得关注|陈阳|shop|tiktok_网易订阅</a></div>
+      <div class="summary">TikTok Shop助力中国企业全球出海的新模式值得关注,中国,陈阳,shop,全球出海,tiktok</div>
+      <div class="source">📌 <a href="https://www.163.com/dy/article/JLQD48HA05199NPP.html" target="_blank">www.163.com</a></div>
     </div><div class="news-item">
-      <div class="meta"><span class="tag tag-green">行业观察</span>2026-03-25 <span class="update-time">🕒 2026-03-25 12:02</span></div>
-      <div class="title"><a href="https://www.jiemian.com/article/14129901.html" target="_blank">2026跨境电商生存指南：如何在变局中守住增长基本盘？</a></div>
-      <div class="summary">2025年跨境电商经历全球经济增长乏力、地缘政治冲突频发，2026年如何守住增长基本盘？生存指南解读。</div>
-      <div class="source">📌 <a href="https://www.jiemian.com/article/14129901.html" target="_blank">界面新闻·商业观察</a></div>
+      <div class="meta"><span class="tag tag-blue">电商平台</span>2026-03-25 <span class="update-time">🕒 2026-03-25 13:02</span></div>
+      <div class="title"><a href="https://www.jiemian.com/article/11336895.html" target="_blank">正面迎战Temu和SHEIN，亚马逊也要开低价商店了|界面新闻 · 科技</a></div>
+      <div class="summary">亚马逊在深圳向部分卖家透露了“低价商店”新项目，迅速引起业界关注。</div>
+      <div class="source">📌 <a href="https://www.jiemian.com/article/11336895.html" target="_blank">www.jiemian.com</a></div>
     </div>
 
     </div>
